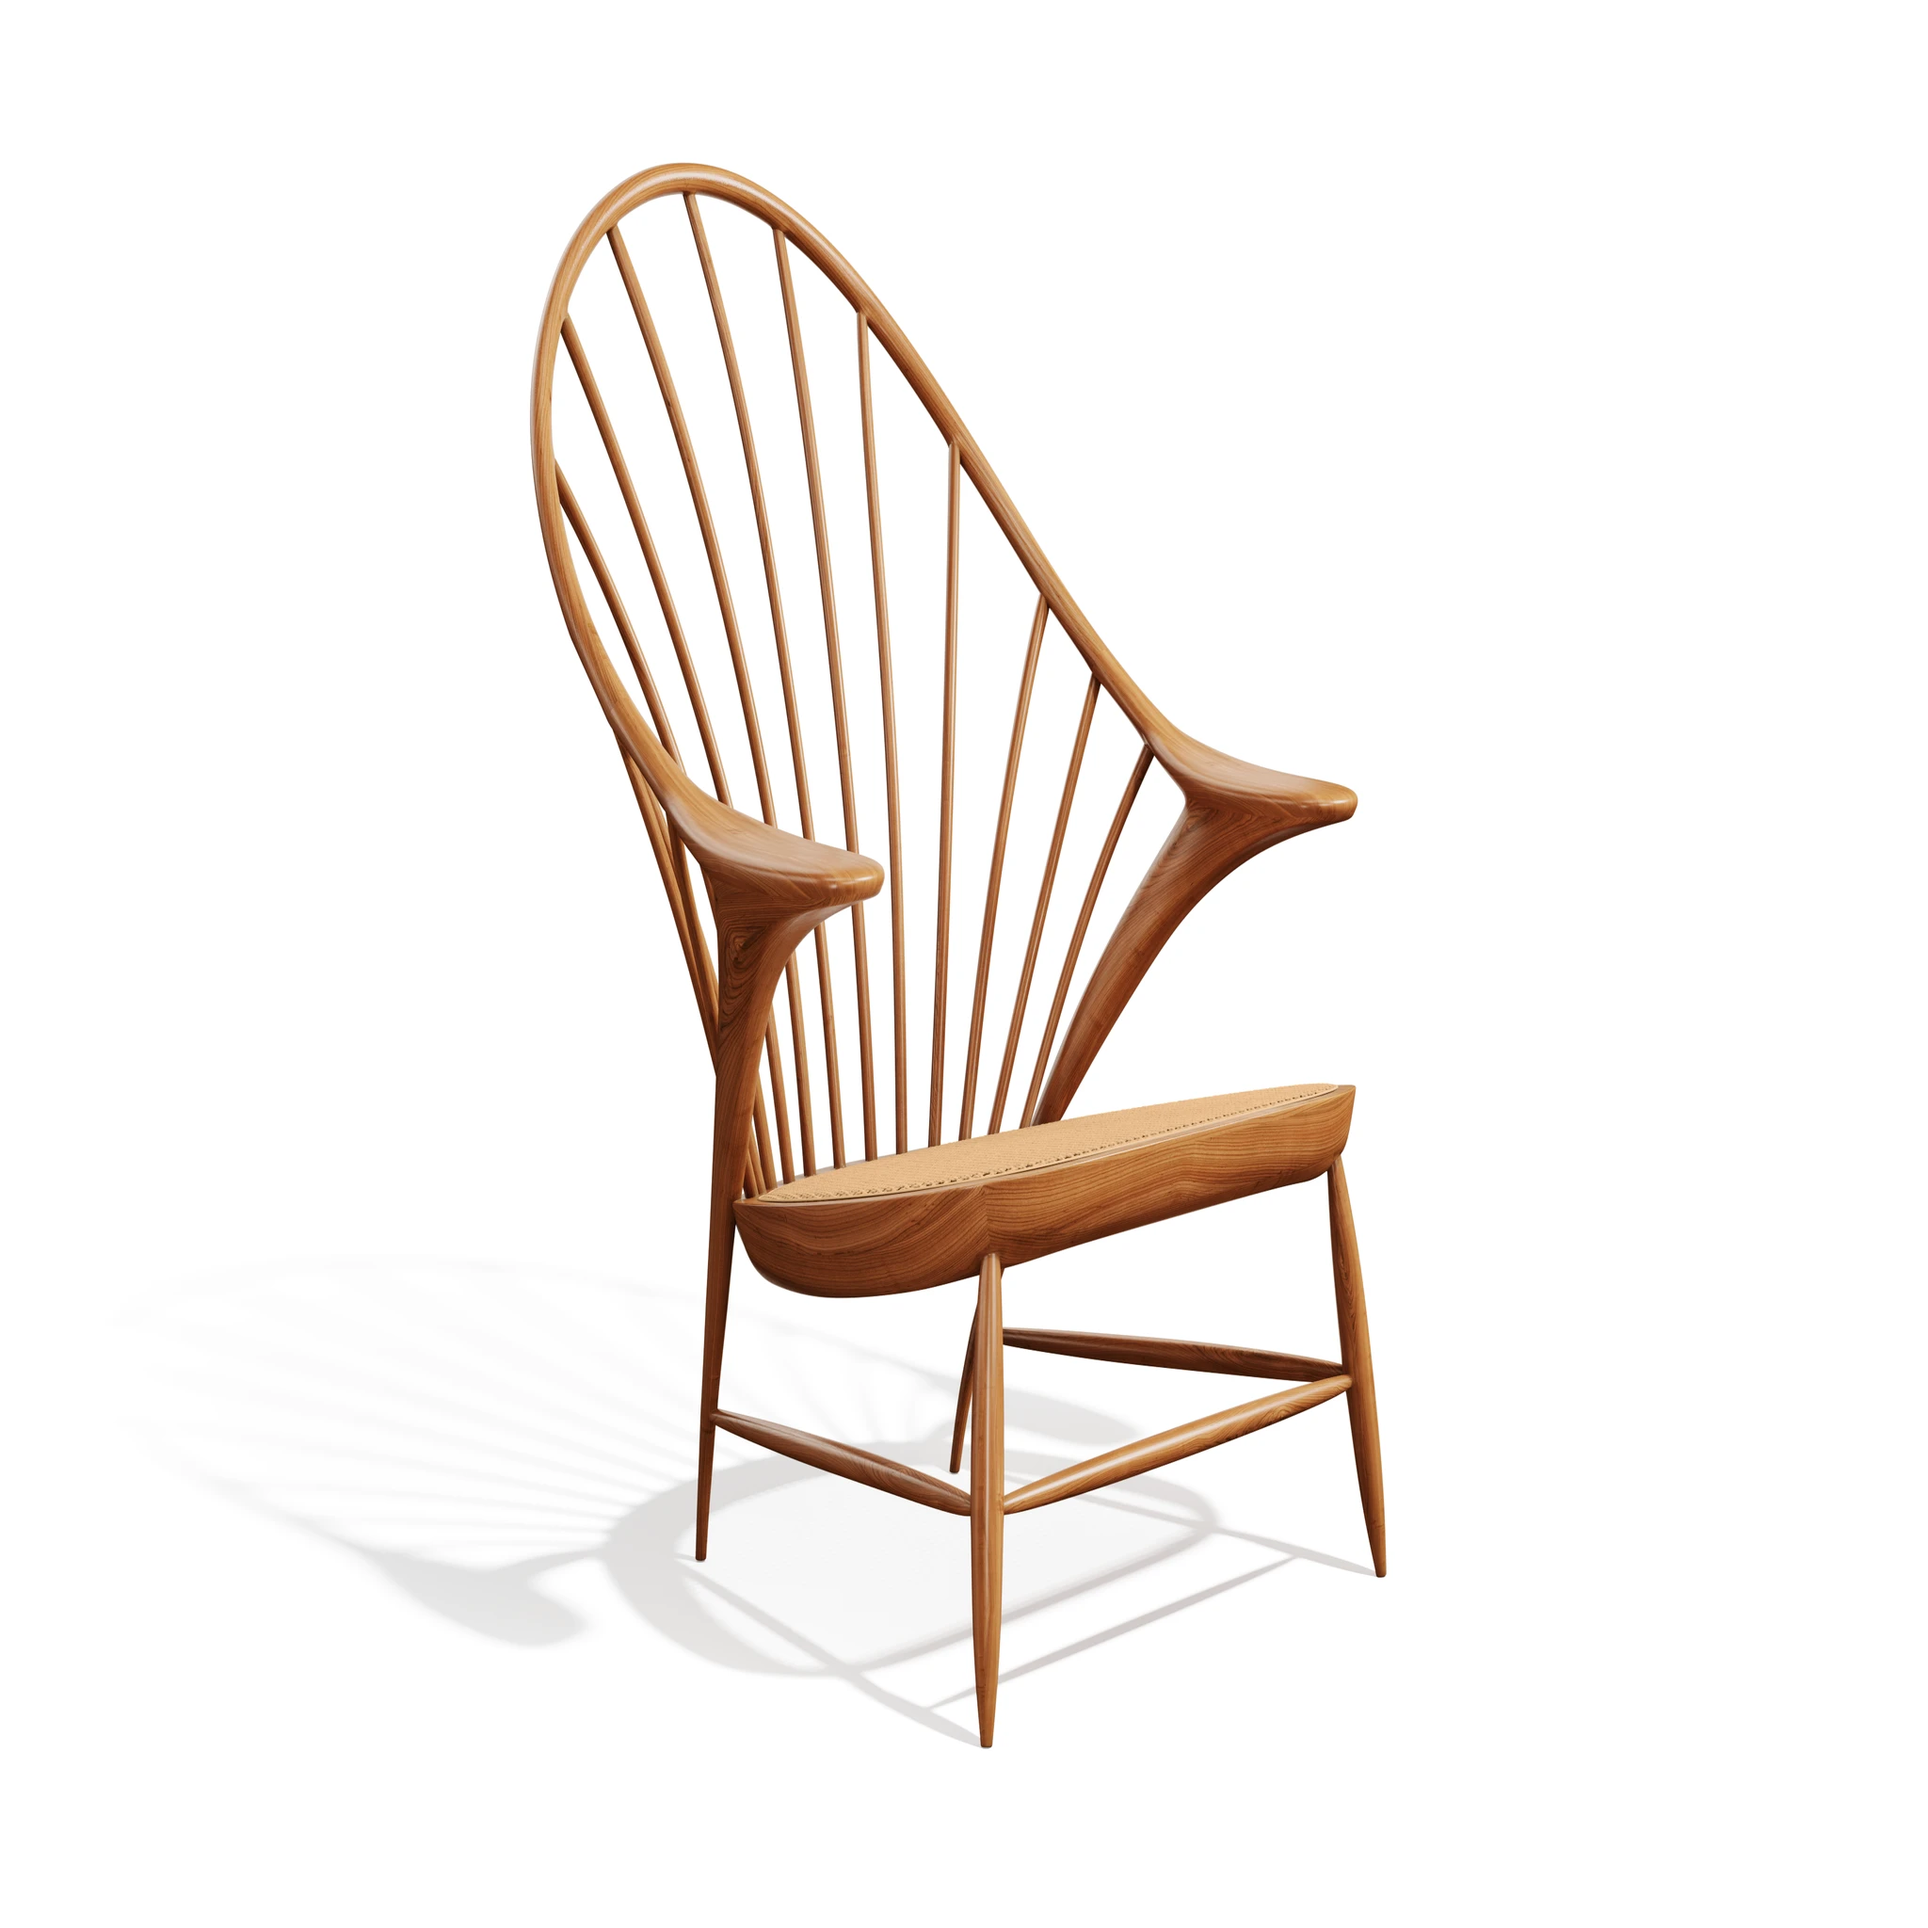
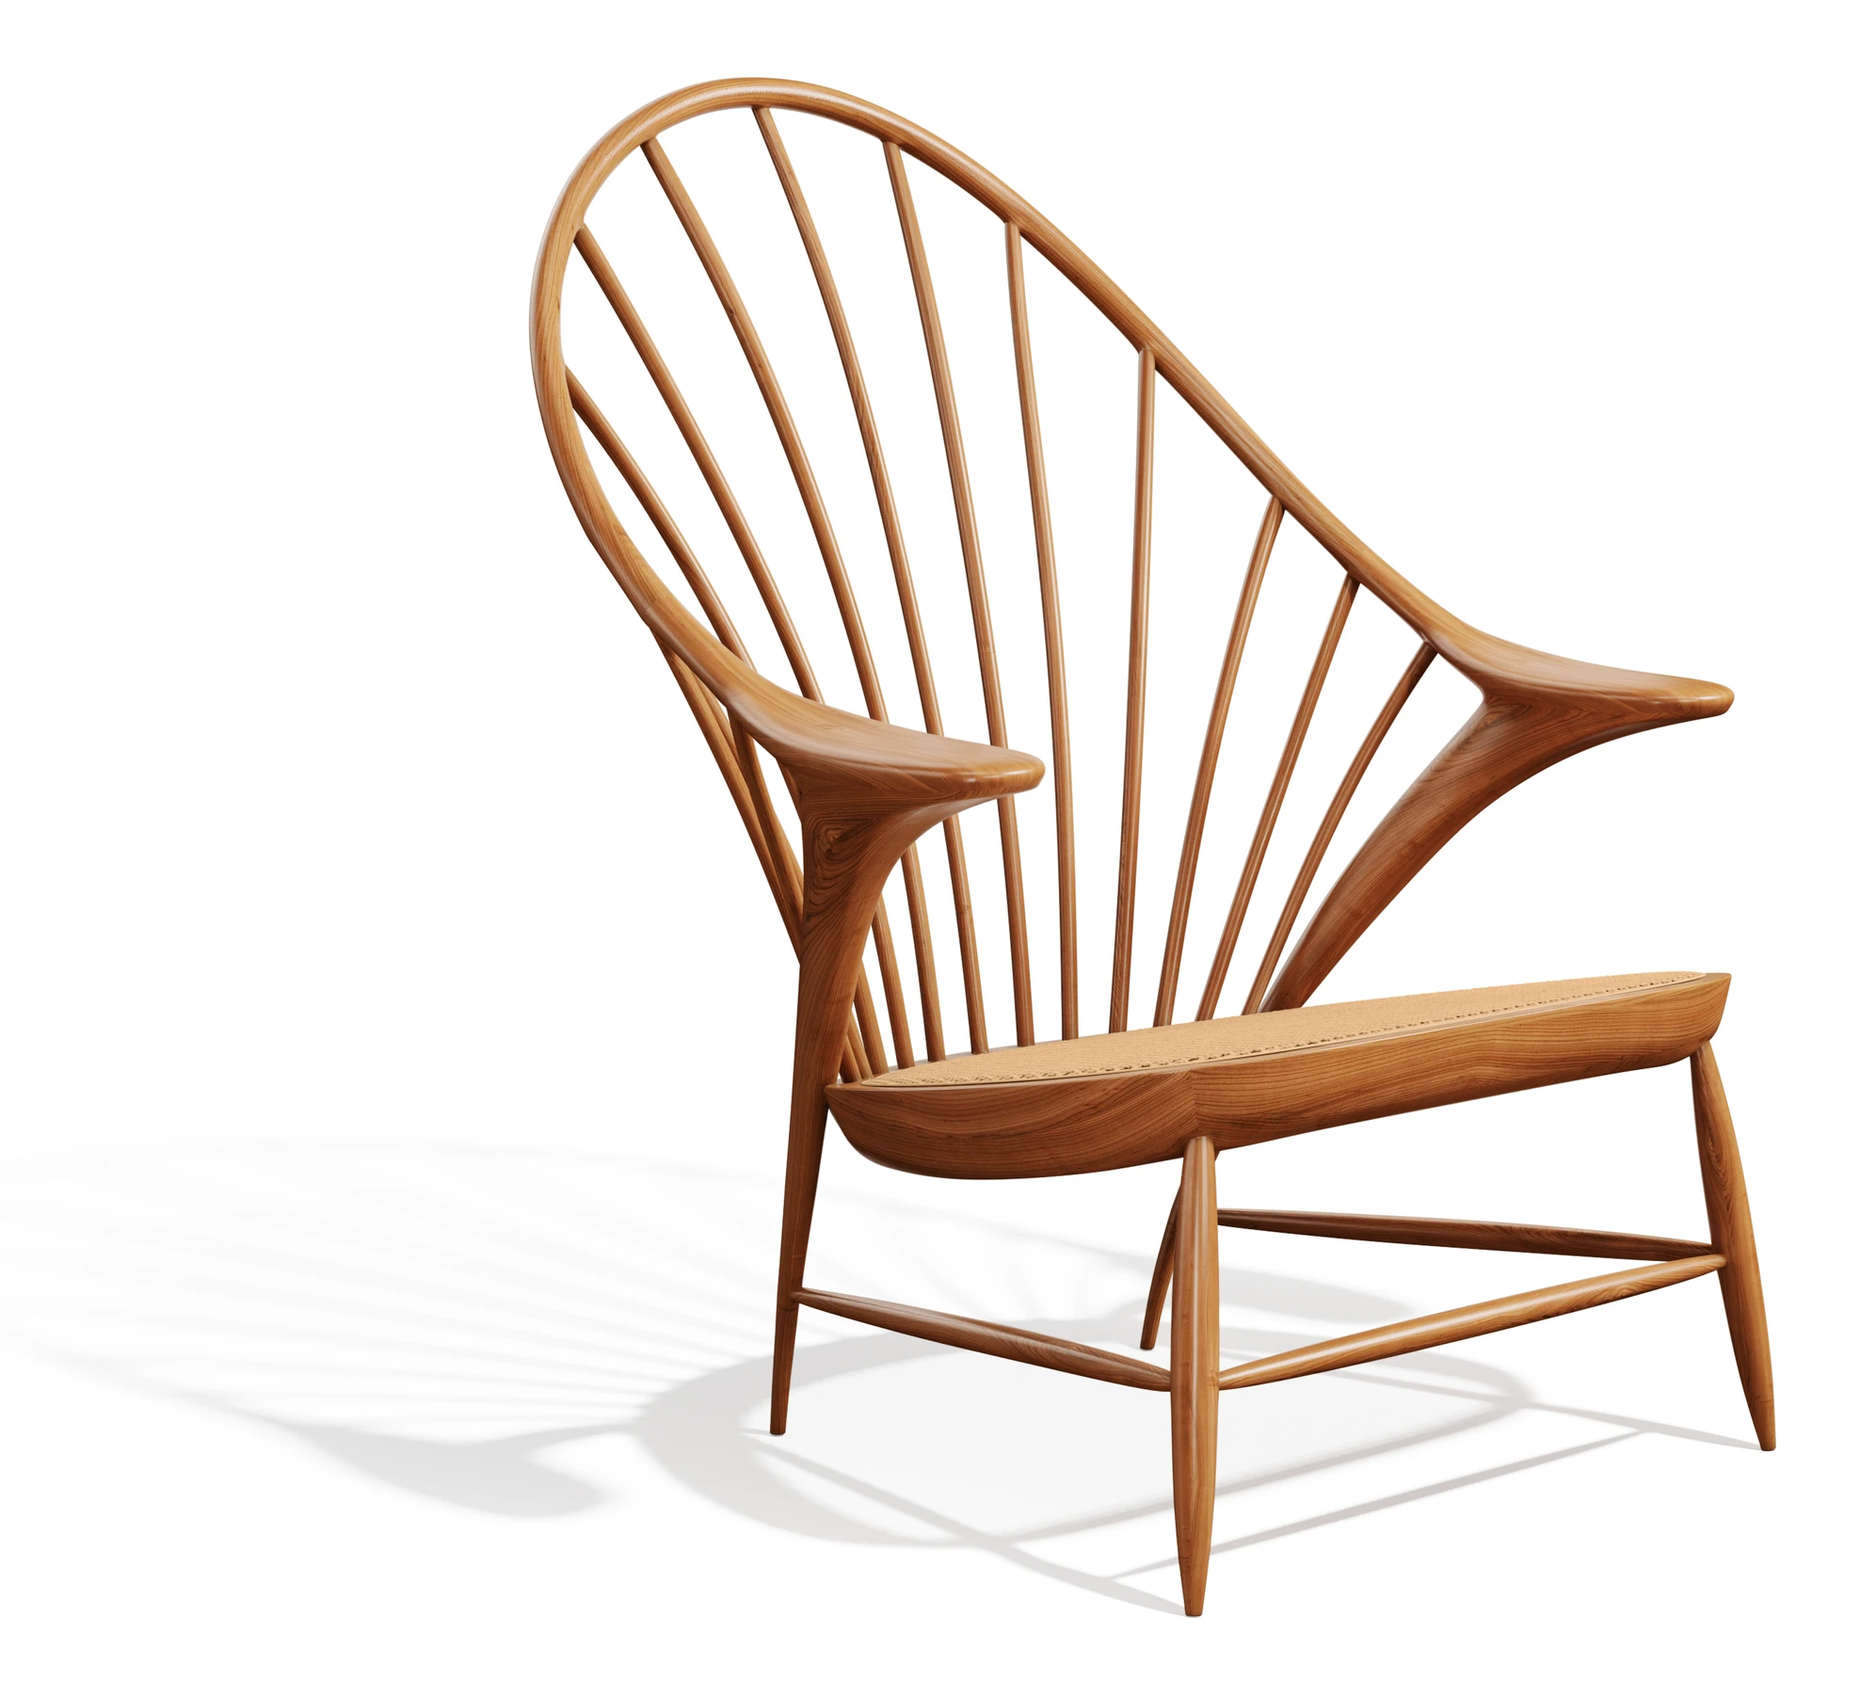
fix: pelicano renders com crop inteligente (PIL bbox), viewer esq + render dir, bordas corretas

Changed region(s): [[0.1544, 0.0311, 0.957, 0.9644]]

diff --git a/src/components/portfolio/AssetsSection.tsx b/src/components/portfolio/AssetsSection.tsx
@@ -176,13 +176,7 @@ export default function AssetsSection() {
         <div ref={stripRef} className="assets-strip">
           {ASSETS.map(asset => (
             <article key={asset.slug} className="asset-slide">
-              {/* Esquerda — render (foto) começa na borda esquerda */}
-              <RenderCarousel
-                renders={asset.renders}
-                name={asset.name}
-                description={asset.description}
-              />
-              {/* Direita — viewer 3D */}
+              {/* Esquerda — viewer 3D */}
               <div className="asset-viewer-wrap">
                 <AssetViewer
                   src={asset.glbSrc}
@@ -191,6 +185,12 @@ export default function AssetsSection() {
                   className="assets-section-viewer"
                 />
               </div>
+              {/* Direita — render (foto) + descrição */}
+              <RenderCarousel
+                renders={asset.renders}
+                name={asset.name}
+                description={asset.description}
+              />
             </article>
           ))}
         </div>

diff --git a/src/app/globals.css b/src/app/globals.css
@@ -4353,7 +4353,7 @@ summary:focus-visible {
 .asset-viewer-wrap {
   position: relative;
   background: var(--gray-dark);
-  border-left: 1px solid var(--border); /* render à esquerda, viewer à direita */
+  /* viewer na esquerda — sem border-left */
 }
 .assets-section-viewer { width: 100%; height: 100%; }
 
@@ -4371,10 +4371,11 @@ summary:focus-visible {
   pointer-events: none;
 }
 
-/* Coluna esquerda: render frame + nav embaixo */
+/* Coluna direita: render frame + nav embaixo */
 .asset-render-panel {
   display: flex;
   flex-direction: column;
+  border-left: 1px solid var(--border);
 }
 .asset-render-frame {
   position: relative;
